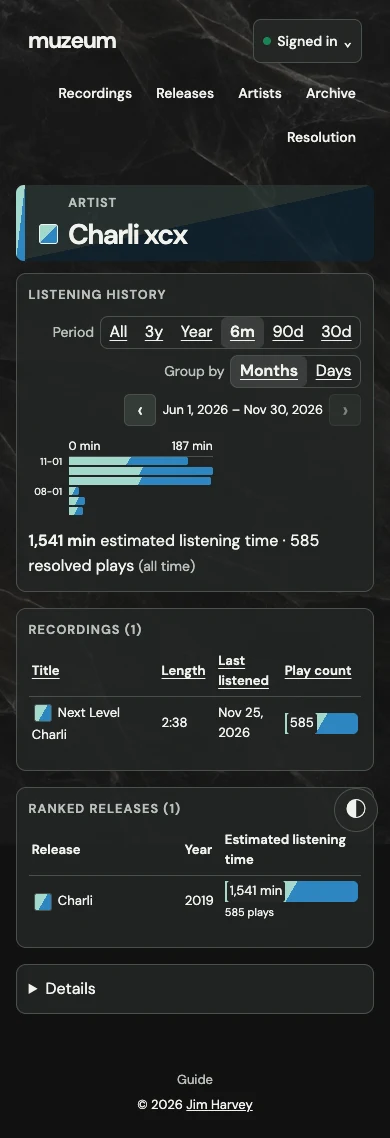
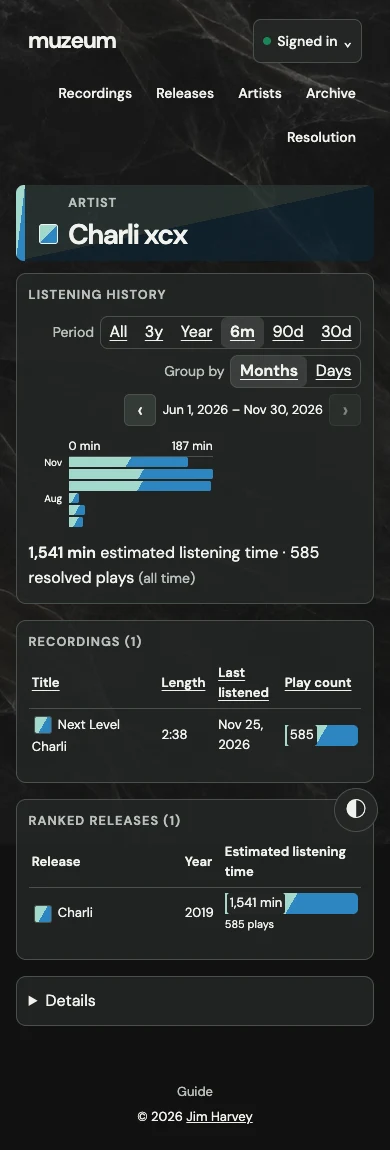
Refine listening history labels and verify full-window chart scaling

diff --git a/app/assets/stylesheets/application.css b/app/assets/stylesheets/application.css
@@ -561,21 +561,24 @@ main .review-candidate.recommended { border-color: #378c48; }
 .listening-summary { margin-block-start: .65rem; }
 .listening-summary p { margin-block: .2rem 0; }
 .artist-timeline {
-  --listening-slot: 10px;
   --listening-thickness: 8px;
+  --listening-slot: calc(var(--listening-thickness) + 2px);
+  --listening-height: 8rem;
   display: flex;
   gap: .5rem;
   margin: .7rem 0 0;
 }
-.artist-timeline-axis { display: flex; height: 8rem; flex: none; flex-direction: column; justify-content: space-between; font-size: .75rem; }
+.artist-timeline[data-grouping="years"] { --listening-thickness: 20px; }
+.artist-timeline[data-grouping="months"] { --listening-thickness: 10px; }
+.artist-timeline-axis { display: flex; height: var(--listening-height); flex: none; flex-direction: column; justify-content: space-between; font-size: .75rem; }
 .listening-axis-zero { margin-block-start: auto; }
 .listening-plot:focus-visible, .entity-details > summary:focus-visible { outline: 2px solid var(--ink); outline-offset: 2px; }
 .listening-plot { min-width: 0; overflow-x: auto; padding: 0 2.5rem 1.2rem 0; }
 .artist-timeline-bars {
   display: flex;
   width: max-content;
-  height: 8rem;
-  border-bottom: 1px solid currentColor;
+  height: var(--listening-height);
+  box-shadow: 0 1px currentColor;
   background: repeating-linear-gradient(to top, transparent 0 calc(50% - 1px), var(--line) calc(50% - 1px) 50%);
 }
 .artist-timeline-column { position: relative; display: flex; align-items: end; width: var(--listening-slot); height: 100%; }
@@ -586,9 +589,14 @@ main .review-candidate.recommended { border-color: #378c48; }
 
 @media (max-width: 700px) {
   .listening-controls { width: 100%; }
-  .artist-timeline { --listening-date-gutter: 2.5rem; display: block; }
+  .artist-timeline {
+    --listening-date-gutter: 2.5rem;
+    --listening-length: min(9rem, calc(100cqi - var(--listening-date-gutter) - 1rem));
+    display: block;
+    container-type: inline-size;
+  }
   .artist-timeline-axis {
-    width: min(9rem, calc(100% - var(--listening-date-gutter)));
+    width: var(--listening-length);
     height: auto;
     flex-direction: row;
     margin-inline-start: var(--listening-date-gutter);
@@ -596,7 +604,7 @@ main .review-candidate.recommended { border-color: #378c48; }
   }
   .listening-axis-zero { order: -1; }
   .listening-plot {
-    width: min(100%, calc(9rem + var(--listening-date-gutter) + 1rem));
+    width: calc(var(--listening-length) + var(--listening-date-gutter) + 1rem);
     max-height: 12rem;
     overflow: hidden auto;
     padding: 0 0 2px;
@@ -606,10 +614,10 @@ main .review-candidate.recommended { border-color: #378c48; }
     width: auto;
     height: auto;
     background: none;
-    border: 0;
+    box-shadow: none;
     padding-inline-start: var(--listening-date-gutter);
   }
-  .artist-timeline-column { align-items: start; width: min(100%, 9rem); height: var(--listening-slot); }
+  .artist-timeline-column { align-items: start; width: var(--listening-length); height: var(--listening-slot); }
   .artist-timeline-fill { width: var(--listening-scale, 0%); height: var(--listening-thickness); border-radius: 0 2px 2px 0; }
   .listening-label-desktop { display: none; }
   .listening-label-mobile { display: block; inset-inline-end: calc(100% + .4rem); inset-block-start: 0; line-height: var(--listening-slot); }

diff --git a/spec/system/listening_history_acceptance_spec.rb b/spec/system/listening_history_acceptance_spec.rb
@@ -127,10 +127,13 @@ RSpec.describe "Muzeum v0.7.4 listening history visual acceptance", type: :syste
             const overflow = mobile ? plot.scrollHeight > plot.clientHeight : plot.scrollWidth > plot.clientWidth
             const inactiveOverflow = mobile ? plot.scrollWidth > plot.clientWidth : plot.scrollHeight > plot.clientHeight
             const startsAtNewest = Math.abs(rects.at(-1).top - chartRect.top) < 1
+            const axis = plot.closest("figure").querySelector(".artist-timeline-axis").getBoundingClientRect()
             const headline = document.querySelector(".listening-history-heading h2").getBoundingClientRect()
             const controls = document.querySelector(".listening-controls").getBoundingClientRect()
             return {
               dates: slots.map(slot => slot.dataset.date), lengths, widths: [...new Set(widths)],
+              span: mobile ? rects[0].width : rects[0].height,
+              axisSpan: mobile ? axis.width : axis.height,
               stride: [...new Set(rects.slice(1).map((rect, i) => along(rect) - along(rects[i])))],
               labels: labels.map(([date, text]) => [date, text]),
               nonOverlap: labels.every((label, i) => !i || (mobile ? labels[i - 1][2].bottom <= label[2].top : labels[i - 1][2].right <= label[2].left)),
@@ -141,8 +144,9 @@ RSpec.describe "Muzeum v0.7.4 listening history visual acceptance", type: :syste
           })()
         JS
         expect(layout.fetch("dates")).to eq(dates)
-        expect(layout.fetch("widths")).to eq([ 8 ])
-        expect(layout.fetch("stride")).to eq([ mobile ? -10 : 10 ])
+        thickness = { "years" => 20, "months" => 10, "days" => 8 }.fetch(grouping)
+        expect(layout.fetch("widths")).to eq([ thickness ])
+        expect(layout.fetch("stride")).to eq([ (thickness + 2) * (mobile ? -1 : 1) ])
         expect(layout.values_at("nonOverlap", "viewportFits", "controlsFit")).to all(be(true))
         expect(layout.fetch("inactiveOverflow")).to be(false)
         expect(layout.fetch("startsAtNewest")).to be(true) if mobile
@@ -150,10 +154,27 @@ RSpec.describe "Muzeum v0.7.4 listening history visual acceptance", type: :syste
         if grouping != "years"
           transitions = dates.grep(/-01-01$/).map { |value| [ value, value[0, 4] ] }
           expect(layout.fetch("labels")).to include(*transitions) if transitions.any?
-          expect(layout.fetch("labels").reject { |date, _| date.end_with?("-01-01") }.map(&:last)).to all(match(/\A\d{2}-\d{2}\z/))
+        end
+        layout.fetch("labels").each do |date, text|
+          format = if grouping == "years" || date.end_with?("-01-01")
+            "%Y"
+          else
+            grouping == "months" ? "%b" : "%m-%d"
+          end
+          expect(text).to eq(Date.iso8601(date).strftime(format))
+        end
+        peak = counts.values.max
+        if entity == recording
+          expect(page).to have_css(".listening-axis-peak", exact_text: peak.to_s)
+          expect(page).to have_css(".listening-axis-zero", exact_text: "0")
+        else
+          minutes = (peak * recording.duration_ms / 60_000.0).round
+          expect(page).to have_css(".listening-axis-peak", exact_text: "#{minutes} min")
+          expect(page).to have_css(".listening-axis-zero", exact_text: "0 min")
         end
         maximum_length = layout.fetch("lengths").max
-        expect(maximum_length).to be <= 144 if mobile
+        expect(maximum_length).to be_within(0.1).of(layout.fetch("span"))
+        expect(maximum_length).to be_within(0.1).of(layout.fetch("axisSpan"))
         dates.zip(layout.fetch("lengths")).each do |date, length|
           ideal = maximum_length * counts[Date.iso8601(date)].fdiv(counts.values.max)
           expect(length).to be_within(1).of(ideal)
@@ -163,7 +184,8 @@ RSpec.describe "Muzeum v0.7.4 listening history visual acceptance", type: :syste
           path: URI.parse(page.current_url).path, slots: dates.size, empty: dates.size - counts.size, range: [ dates.first, dates.last ],
           labels: layout.fetch("labels").size, year_markers: layout.fetch("labels").filter_map { |date, text| text if date.end_with?("-01-01") && text.size == 4 },
           overflow: layout.fetch("overflow") ? (mobile ? "vertical" : "horizontal") : "none",
-          checked_bars: counts.size, peak: counts.values.max
+          checked_bars: counts.size, peak_plays: peak, axis_peak: find(".listening-axis-peak").text,
+          plot_length_px: maximum_length, bar_thickness_px: thickness
         }
         screenshot(browser, "#{name}-#{size}")
         next unless name == "release-all-months"
@@ -189,8 +211,10 @@ RSpec.describe "Muzeum v0.7.4 listening history visual acceptance", type: :syste
       "30d" => [ "2026-10-27", "2026-09-27" ] }.each do |range, (current, previous)|
       visit recording_path(recording, range:, start: current)
       expect(page).to have_css('button[aria-label="Next window"][disabled]')
+      expect(page).to have_css(".listening-axis-peak", exact_text: "71") if range == "year"
       find('a[aria-label="Previous window"]').send_keys(:enter)
       expect(page).to have_css(".listening-window time:first-child[datetime='#{previous}']")
+      expect(page).to have_css(".listening-axis-peak", exact_text: "8") if range == "year"
       page.refresh
       expect(page).to have_css(".listening-window time:first-child[datetime='#{previous}']")
       find('a[aria-label="Next window"]').click
@@ -207,8 +231,15 @@ RSpec.describe "Muzeum v0.7.4 listening history visual acceptance", type: :syste
     expect(page).to have_css("nav[aria-label='Listening history grouping'] [aria-current]", exact_text: "Months")
     click_link "Days"
     expect(page).to have_css("nav[aria-label='Listening history grouping'] [aria-current]", exact_text: "Days")
+    expect(page).to have_css(".listening-axis-peak", exact_text: "8")
     click_link "3y"
     expect(page).to have_css("nav[aria-label='Listening history grouping'] [aria-current]", exact_text: "Years")
+    expect(page).to have_css(".listening-axis-peak", exact_text: "235")
+    visit recording_path(recording, range: "year", start: "2015-01-01")
+    expect(page).to have_css(".artist-timeline-column", count: 12, visible: :all)
+    expect(page).to have_no_css(".artist-timeline-fill, .listening-axis-peak", visible: :all)
+    expect(page).to have_css(".listening-axis-zero", exact_text: "0")
+    expect(page).to have_text("No resolved plays in this period.")
     expect(observations.map { |observation| observation.reload.payload }).to all(eq(payload.stringify_keys))
     if ENV["LISTENING_REVIEW_DIR"]
       File.write(File.join(ENV.fetch("LISTENING_REVIEW_DIR"), "calendar-checks.json"), JSON.pretty_generate(evidence) + "\n")

diff --git a/app/helpers/canonical_library_helper.rb b/app/helpers/canonical_library_helper.rb
@@ -110,6 +110,7 @@ module CanonicalLibraryHelper
 
   def listening_calendar_labels(timeline, grouping, spacing:, from_newest: false)
     years = grouping == "years"
+    format = { "years" => "%Y", "months" => "%b", "days" => "%m-%d" }.fetch(grouping)
     transitions = timeline.each_index.select { |i| timeline[i].first.yday == 1 } unless years
     reserved = Set.new
     labels = {}
@@ -121,7 +122,7 @@ module CanonicalLibraryHelper
       offset = from_newest ? timeline.size - i - 1 : i
       next unless (offset % spacing).zero? && !reserved.include?(i)
 
-      labels[i] = date.strftime(years ? "%Y" : "%m-%d")
+      labels[i] = date.strftime(format)
     end
     labels
   end

diff --git a/docs/design/v0.7.4/README.md b/docs/design/v0.7.4/README.md
@@ -19,7 +19,7 @@ Chrome rendered a disposable Charli xcx catalog with 585 resolved plays and the 
 | 30d + Days | Next Level Charli | Sep 27–Oct 26, 2026, previous | 30 / 5 | [Desktop](recording-30d-days-previous-desktop.webp) | [Mobile](recording-30d-days-previous-mobile.webp) |
 
 
-The browser compared each displayed calendar slot and bar to independently grouped fixture observations. It checked chronological direction, 10 px slots with 8 px bars, proportional lengths within 1 CSS pixel, sparse non-overlapping labels, and January year markers for day and month groupings. The long monthly plot scrolls horizontally on desktop and vertically on mobile. The current 30-day screenshot shows the disabled forward arrow, and the previous-window screenshots show both arrows enabled. Totals below the plot remain all time.
+The browser compared each displayed calendar slot and bar to independently grouped fixture observations. It checked chronological direction, 2 px gaps between 20 px annual, 10 px monthly, and 8 px daily bars, proportional lengths within 1 CSS pixel, sparse non-overlapping labels, and January year markers for day and month groupings. Monthly labels use abbreviated month names. Every nonempty window’s peak bar filled the plot on both axes, and the axis showed that window’s maximum. Navigation tests verified the scale resets between windows and groupings, and the empty window retained its slots with a zero axis and no fills. The long monthly plot scrolls horizontally on desktop and vertically on mobile. The current 30-day screenshot shows the disabled forward arrow, and the previous-window screenshots show both arrows enabled. Totals below the plot remain all time.
 
 The current three-year window includes this calendar year and its two predecessors. The current six-month window includes this month and its five predecessors. Calendar windows reserve empty intervals through the end of their last calendar year or month. Day windows end on the current UTC date and move by their exact length.
 
